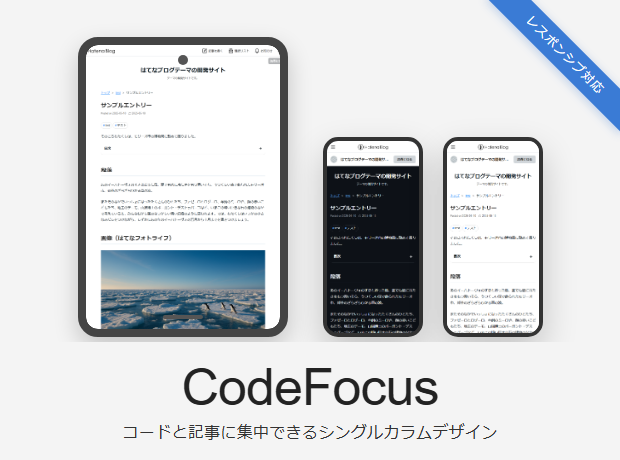
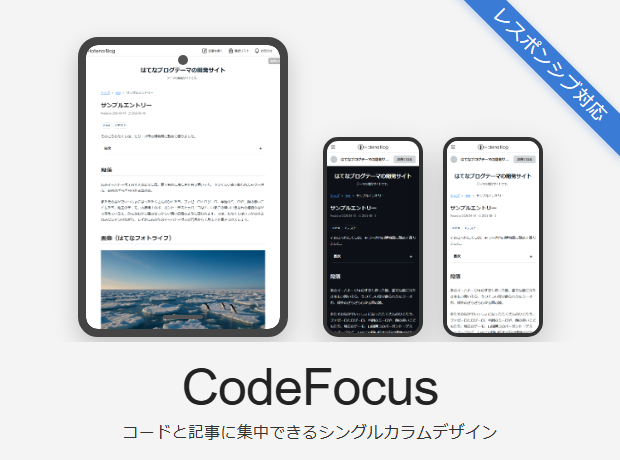
chore: big ribon

Changed region(s): [[0.7355, 0.0, 1.0, 0.3348]]

diff --git a/theme-store-catch.html b/theme-store-catch.html
@@ -238,16 +238,16 @@
       content: "レスポンシブ対応";
       position: absolute;
       /* 上端から始まるように上に移動 */
-      top: 40px;
+      top: 50px;
       /* 右端から始まるように調整 */
-      right: -40px;
-      width: 190px;
+      right: -50px;
       /* 長いリボン幅 */
-      height: 30px;
+      width: 240px;
       /* リボンの高さ */
+      height: 30px;
       background-color: #3a7bd5;
       color: white;
-      font-size: 12px;
+      font-size: 18px;
       font-weight: 500;
       line-height: 30px;
       /* 垂直センタリング */
